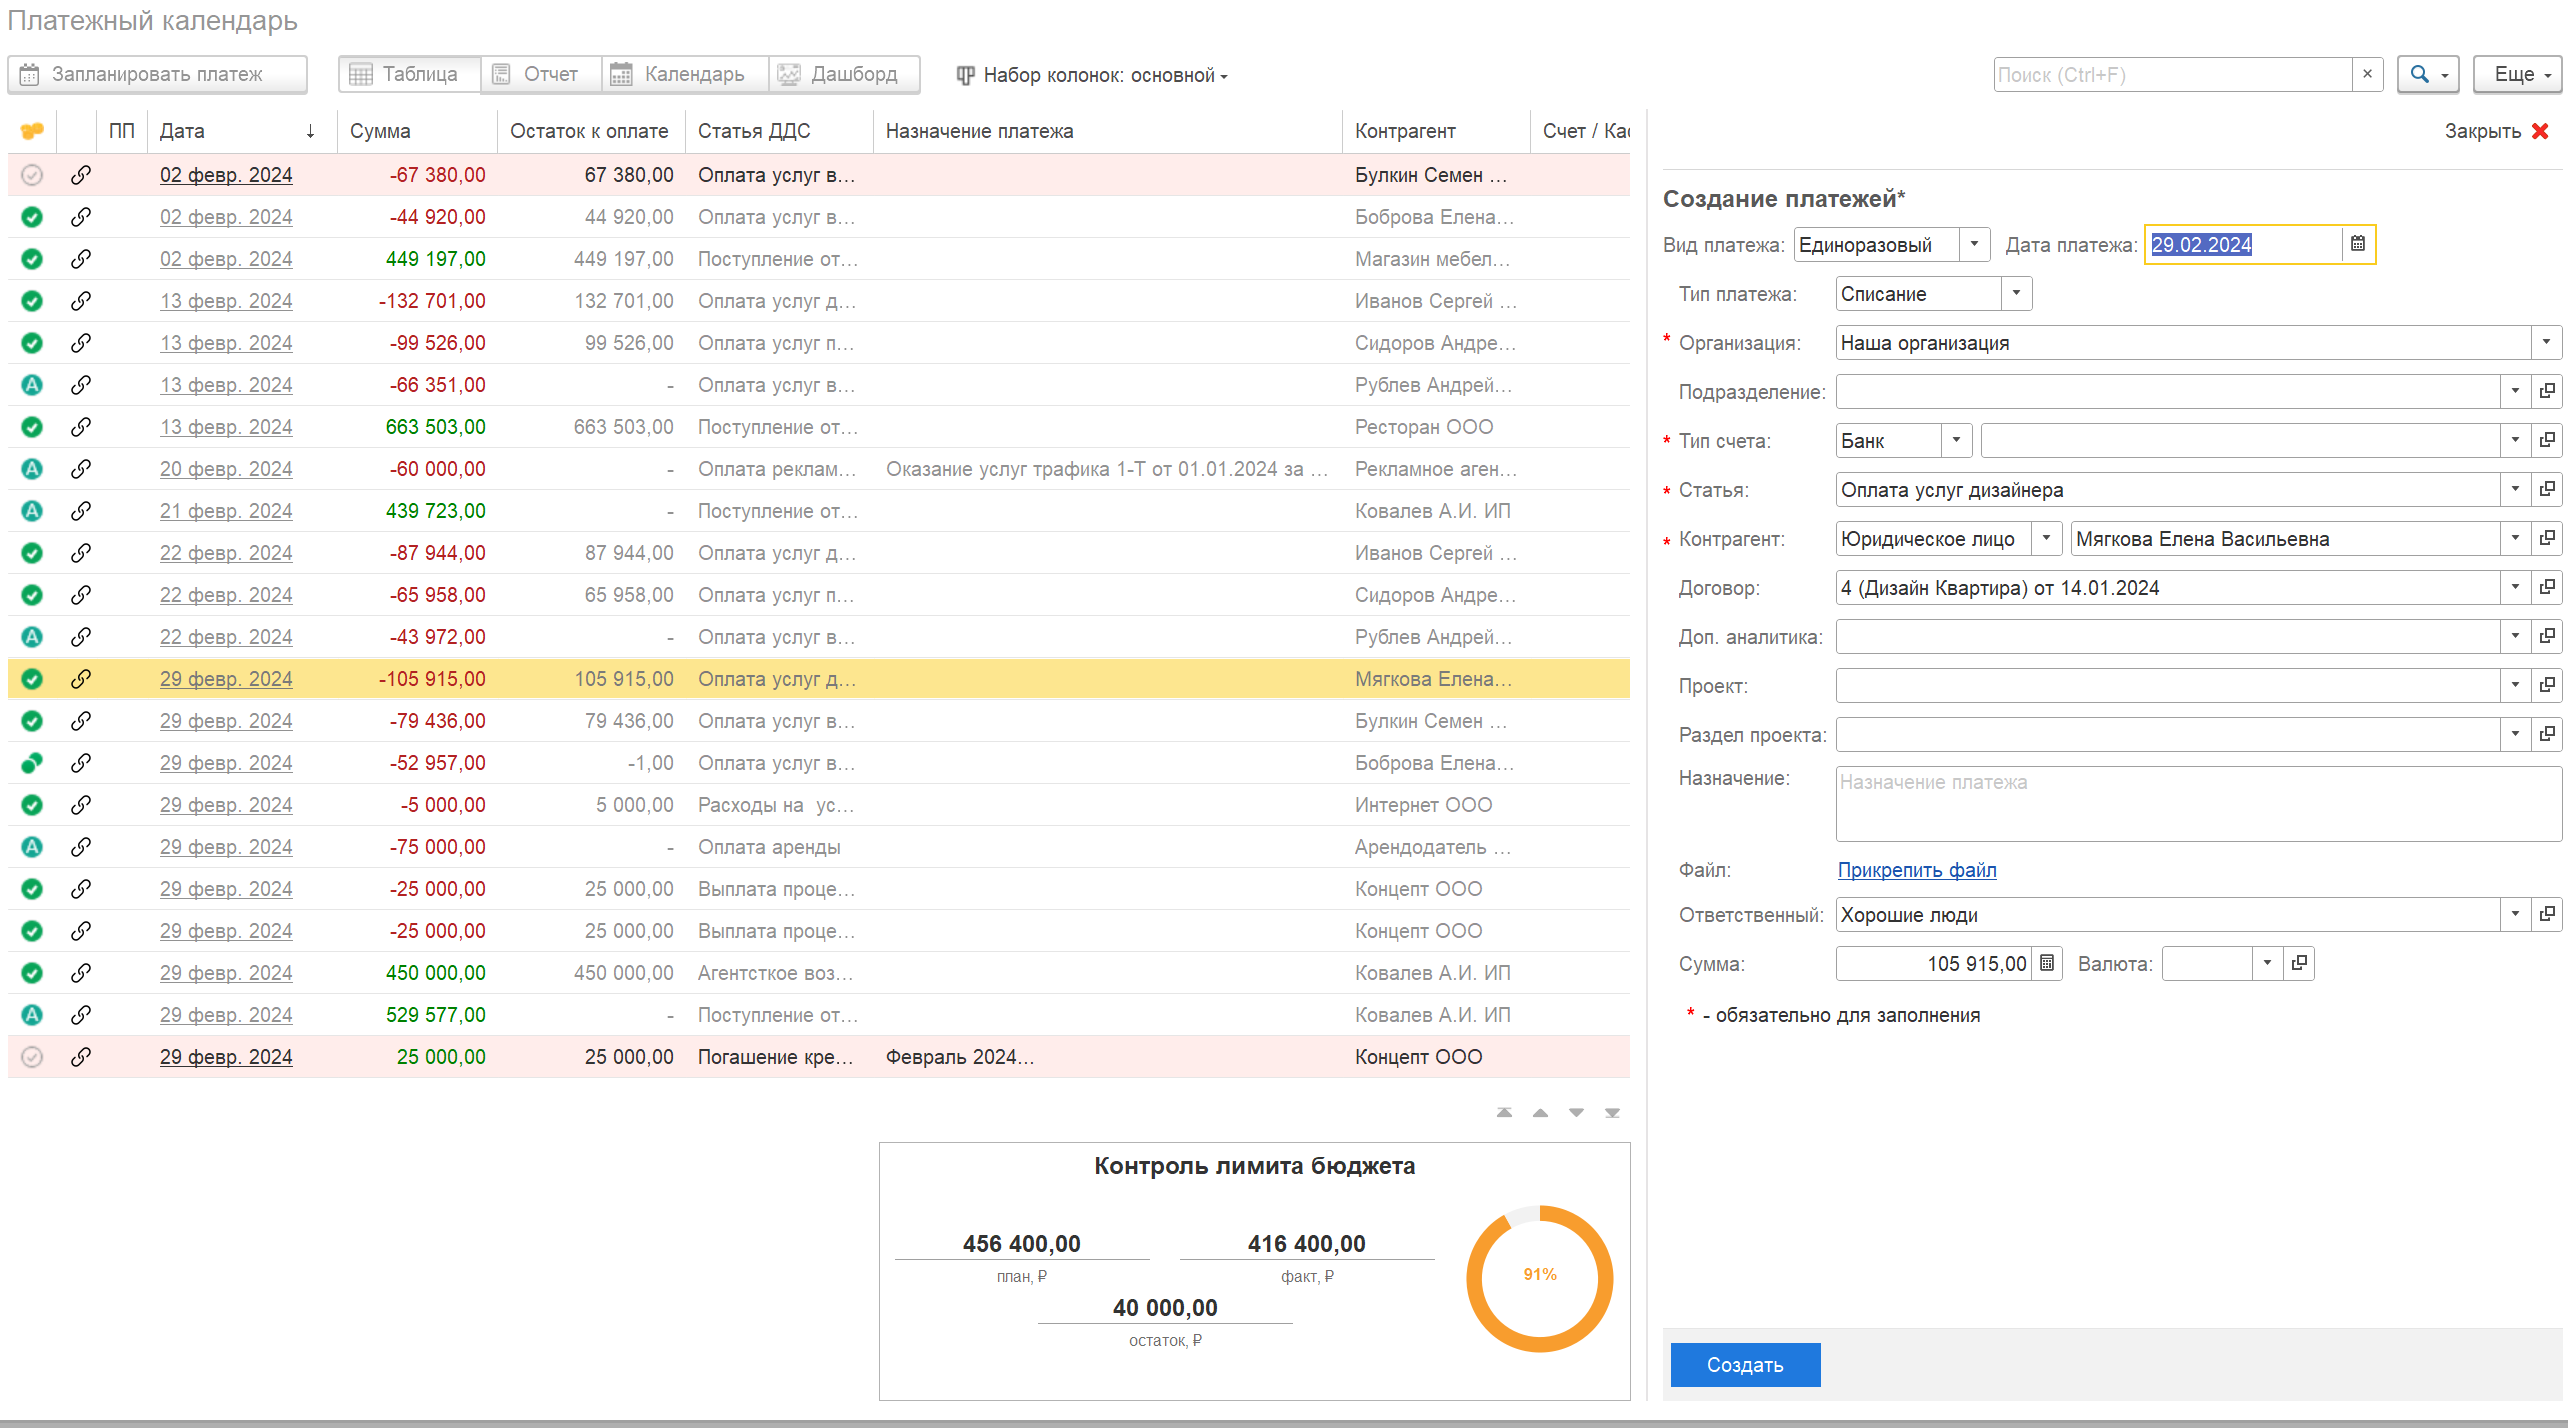
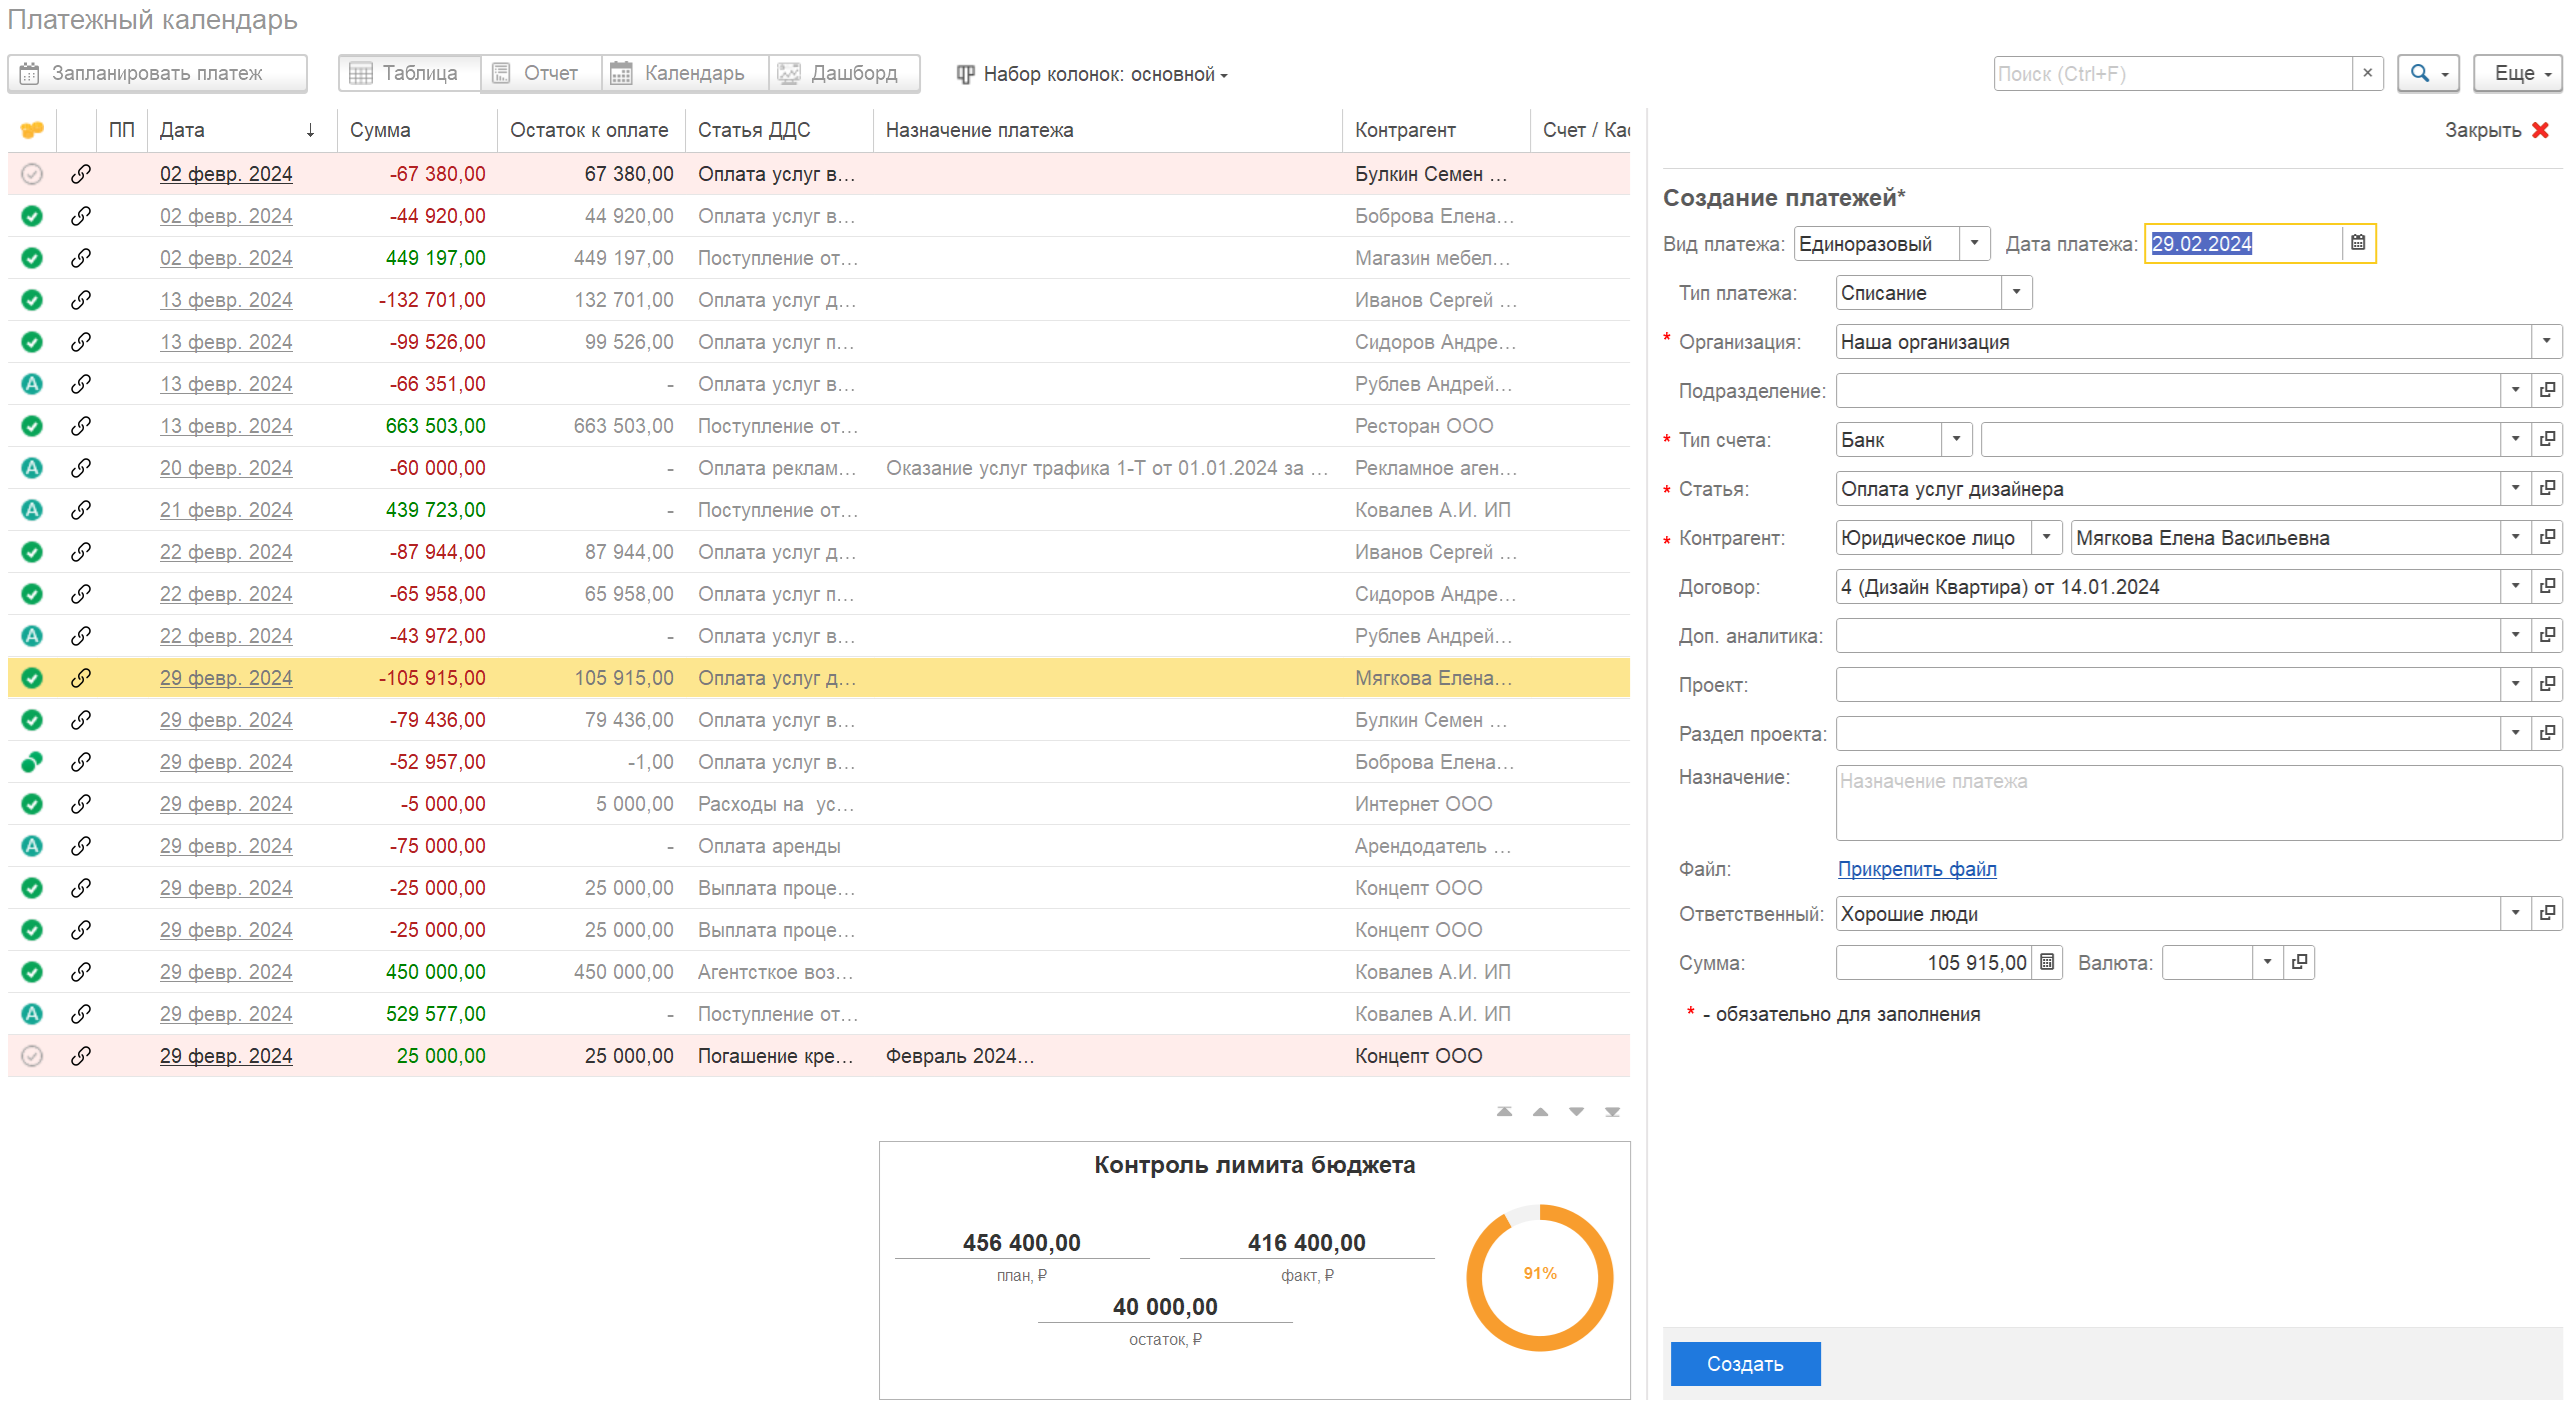
Update 2 files
- p-l/platezhnyy-kalendar/kontrol-limitov-byudzheta.md
   - p-l/platezhnyy-kalendar/kontrol-limitov-byudzheta-3.png

diff --git a/p-l/platezhnyy-kalendar/kontrol-limitov-byudzheta.md b/p-l/platezhnyy-kalendar/kontrol-limitov-byudzheta.md
@@ -65,7 +65,7 @@ title: Контроль лимитов бюджета
 
 -  **Остаток:** Разница между планом и фактом -- свободный для расходования лимит.
 
-![](./kontrol-limitov-byudzheta-3.png "При создании платежа, внизу появляется блок контроля лимита бюджета"){width=2568px height=1428px}
+![](./kontrol-limitov-byudzheta-3.png "При создании платежа, внизу появляется блок контроля лимита бюджета"){width=2568px height=1413px}
 
 Пользователь может проверить, сможет ли он запланировать новую выплату, не выходя за рамки бюджета.
 
